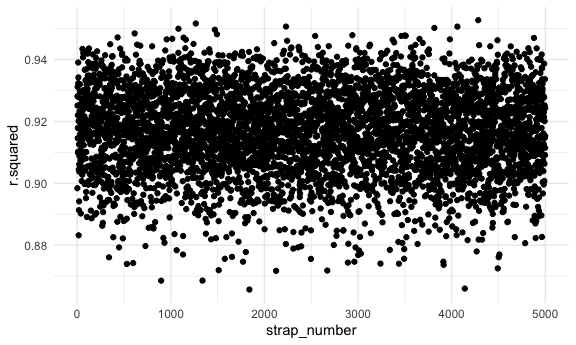
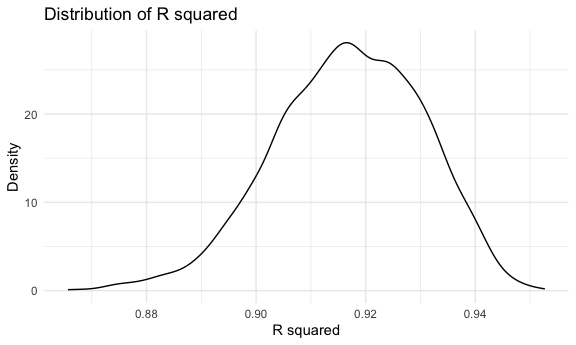
found quantiles for R squared and log(beta1*beta2), created distrubution plot for both R squared and log(beta1*beta2), added descriptions

diff --git a/p8105_hw6_dmh2228.md b/p8105_hw6_dmh2228.md
@@ -185,8 +185,13 @@ bootstrap_df =
     names_prefix = "beta_") |>
   mutate(
     log_beta1beta2 = log(beta_tmin*beta_prcp),
-    strap_number = row_number()
-  )
+    strap_number = row_number(),
+    log_Q1 = quantile(log_beta1beta2, prob = 0.025, na.rm = TRUE),
+    log_Q3 = quantile(log_beta1beta2, prob = 0.975, na.rm = TRUE),
+    r.squared_Q1 = quantile(r.squared, prob = 0.025),
+    r.squared_Q3 = quantile(r.squared, prob = 0.975)
+  ) |>
+  select(strap_number, `beta_(Intercept)`, beta_tmin, beta_prcp, log_beta1beta2, log_Q1, log_Q3, r.squared, r.squared_Q1, r.squared_Q3)
 ```
 
     ## Warning: There was 1 warning in `mutate()`.
@@ -194,27 +199,42 @@ bootstrap_df =
     ## Caused by warning in `log()`:
     ## ! NaNs produced
 
+The 2.5% and 97.5% quantiles of R squared is -8.86 and -4.60. The 2.5%
+and 97.5% quantiles of log(beta 1\*beta 2) is 0.89 and 0.94.
+
 Plot the distributions of the two estimates.
 
 ``` r
 bootstrap_df |>
-  group_by(log_beta1beta2) |>
-  ggplot(aes(x = strap_number, y = log_beta1beta2)) +
-  geom_point()
+  ggplot(aes(x = log_beta1beta2)) + 
+  geom_density() +
+  labs(
+    title = "Distribution of log(beta_1 * beta_2)",
+    x = "log(beta_1 * beta_2)",
+    y = "Density"
+  )
 ```
 
-    ## Warning: Removed 3361 rows containing missing values (`geom_point()`).
+    ## Warning: Removed 3361 rows containing non-finite values (`stat_density()`).
 
 <img src="p8105_hw6_dmh2228_files/figure-gfm/unnamed-chunk-8-1.png" width="90%" />
 
 ``` r
 bootstrap_df |>
-  group_by(r.squared) |>
-  ggplot(aes(x = strap_number, y = r.squared)) +
-  geom_point() 
+  ggplot(aes(x = r.squared)) + 
+  geom_density() +
+    labs(
+    title = "Distribution of R squared",
+    x = "R squared",
+    y = "Density"
+  )
 ```
 
 <img src="p8105_hw6_dmh2228_files/figure-gfm/unnamed-chunk-8-2.png" width="90%" />
+
+The distribution of log(beta 1\*beta 2) is skewed to the left. The
+distribution of R squared is approximately normal, but slightly skewed
+to the left.
 
 # Problem 3
 
